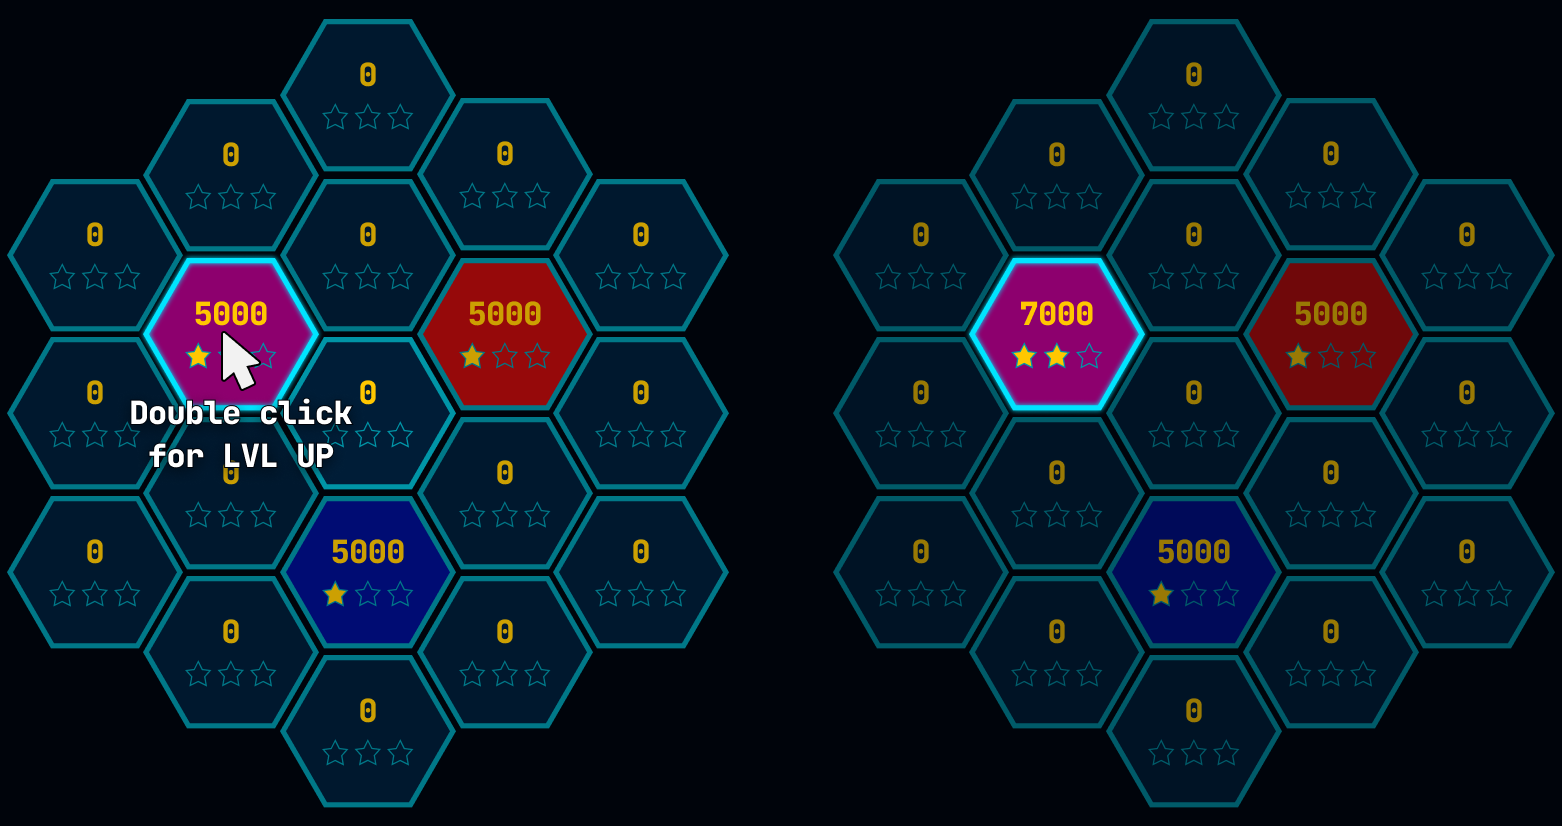
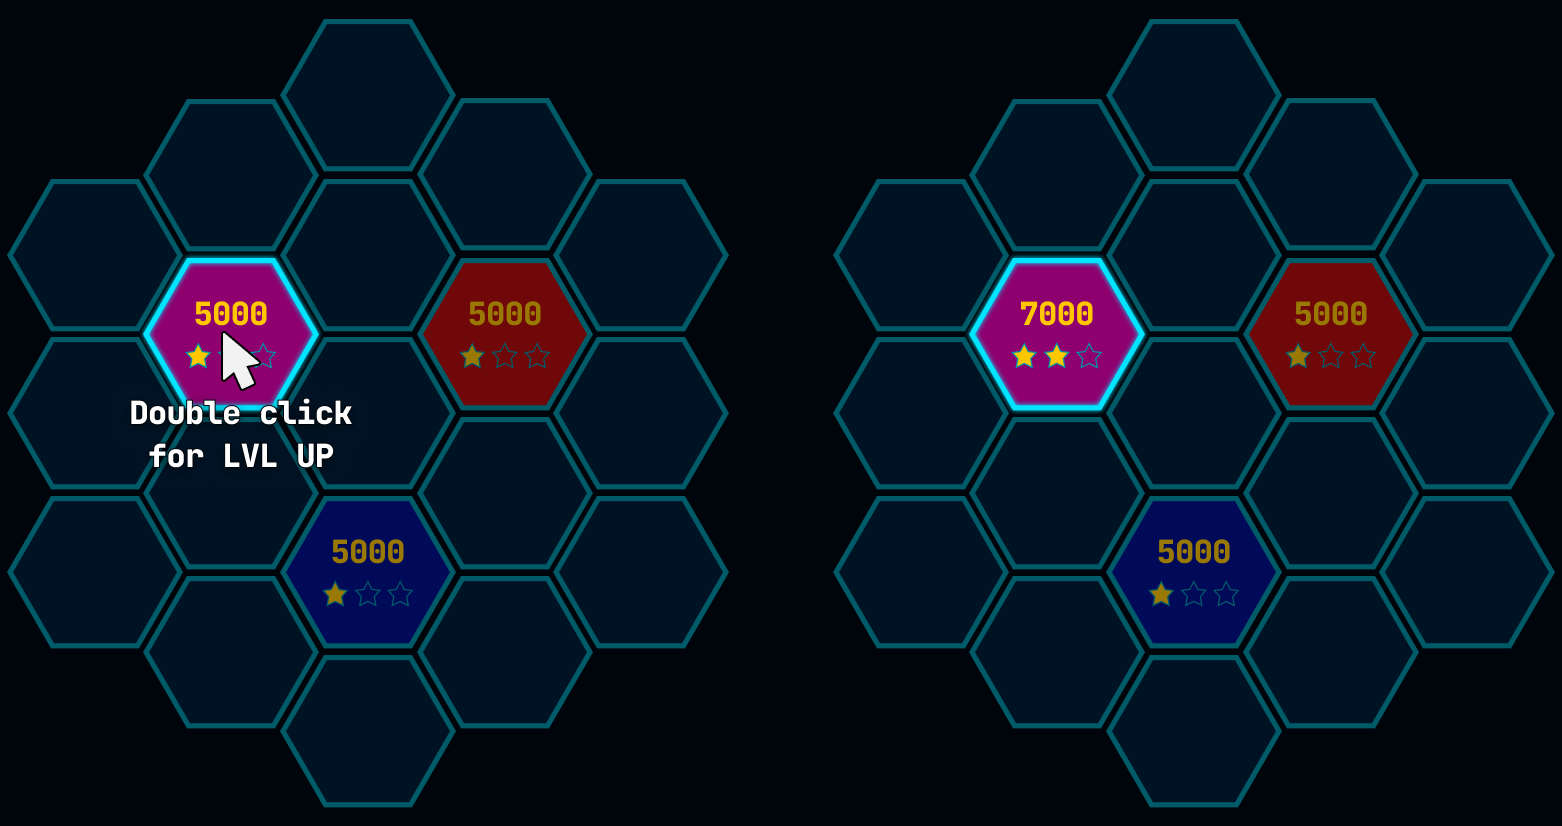
fix styles for tutorial and cells

diff --git a/src/web/src/view/HowItWorkPage.vue b/src/web/src/view/HowItWorkPage.vue
@@ -98,6 +98,7 @@
     <div class="interface-wrap">
       <div>
         <img src="/img/info_game_rooms.png" />
+        <h3>Game rooms</h3>
         <p>
           The panel displays all the current locations created by the players.
           To the right of each location is the number of players who have joined
@@ -115,6 +116,7 @@
       </div>
       <div>
         <img src="/img/info_this_game.png" />
+        <h3>This game</h3>
         <p>
           After you have selected a room with the "Join" or "Info" buttons,
           information about it will be displayed in the "This game" tab.
@@ -130,6 +132,7 @@
       </div>
       <div>
         <img src="/img/info_30days_top.png" />
+        <h3>30 days TOP</h3>
         <p>The best players are placed in the "30 days TOP".</p>
         <p>
           The list shows the address of the player and the number of captured
@@ -146,31 +149,38 @@
   padding: 120px 10%;
   font-family: "JetBrains Mono";
   font-size: 20px;
+  .energy {
+    color: #fbff3a;
+  }
+  h1 {
+    font-size: 50px;
+    font-weight: 800;
+    text-align: center;
+    margin-bottom: 40px;
+  }
+  h2 {
+    font-size: 30px;
+    font-weight: 800;
+    text-align: center;
+    margin-top: 50px;
+    margin-bottom: 20px;
+  }
+  h3 {
+    font-size: 26px;
+    font-weight: 800;
+    text-align: center;
+  }
+  p {
+    padding: 10px 0;
+  }
+  .p40 {
+    padding: 40px 0;
+  }
+  img {
+    padding: 40px 0;
+  }
 }
-.energy {
-  color: #fbff3a;
-}
-h1 {
-  font-size: 50px;
-  text-align: center;
-  margin-bottom: 40px;
-}
-h2 {
-  text-align: center;
-  font-size: 30px;
-  font-weight: 800;
-  margin-top: 50px;
-  margin-bottom: 20px;
-}
-p {
-  padding: 10px 0;
-}
-.p40 {
-  padding: 40px 0;
-}
-img {
-  padding: 40px 0;
-}
+
 .interface-wrap {
   display: flex;
   div {
@@ -180,6 +190,7 @@ img {
   img {
     max-width: 400px;
     padding: 0;
+    margin-bottom: 20px;
   }
 }
 </style>

diff --git a/src/web/src/component/GameCanvas.vue b/src/web/src/component/GameCanvas.vue
@@ -292,7 +292,8 @@ export default {
             y - 5,
             `${hex.details.energy}`,
             10,
-            "#FFC700"
+            "#FFC700",
+            true
           );
           // this.setText(
           //   this.mainCtx,
@@ -314,10 +315,10 @@ export default {
             this.mainCtx.drawImage(yellowStar, x + 7, y + 5, 15, 15);
           }
         } else {
-          this.setText(this.mainCtx, x, y - 5, 0, 10, "#FFC700");
-          this.mainCtx.drawImage(star, x - 23, y + 5, 15, 15);
-          this.mainCtx.drawImage(star, x - 8, y + 5, 15, 15);
-          this.mainCtx.drawImage(star, x + 7, y + 5, 15, 15);
+          // this.setText(this.mainCtx, x, y - 5, 0, 10, "#FFC700");
+          // this.mainCtx.drawImage(star, x - 23, y + 5, 15, 15);
+          // this.mainCtx.drawImage(star, x - 8, y + 5, 15, 15);
+          // this.mainCtx.drawImage(star, x + 7, y + 5, 15, 15);
         }
       }
 
@@ -361,12 +362,18 @@ export default {
     //   this.setText(this.mainCtx, x, y - this.hexSize / 2, 5000);
     // },
 
-    setText(ctx, x, y, txt, fontSize = 10, style = "white", align = "center") {
+    setText(ctx, x, y, txt, fontSize = 10, style = "white", shadow = false) {
       let _font = `${fontSize * (this.camera.zoom + 1)}px JetBrains Mono`;
       ctx.font = _font;
       ctx.fillStyle = style;
-      ctx.textAlign = align;
+      ctx.textAlign = "center";
+      if (shadow){
+        ctx.shadowColor="black";
+        ctx.shadowBlur=5;
+        ctx.lineWidth=5;
+      }
       ctx.fillText(txt, x, y, this.hexSize);
+      ctx.shadowBlur=0;
     },
 
     calculateHexDimensions() {

diff --git a/src/web/src/component/Controls.vue b/src/web/src/component/Controls.vue
@@ -49,8 +49,8 @@
                     minlength="2"
                   />
                 </td>
-                <td class="flex">
-                  <img src="/users.svg" alt="users" style="max-width: 24px; height: 17px; margin-right: 10px;" />
+                <td class="flex items-center">
+                  <img src="/users.svg" alt="users" style="max-width: 20px; height: 10px;" />
                   <div class="users-number">
                     <svg
                       @click="setUsersNumber('up')"
@@ -242,6 +242,7 @@ export default {
 .ps {
   height: 350px;
   background: rgba(0, 4, 11, 0.9);
+  padding-right: 10px;
 }
 .ps__thumb-y {
   background-color: #00e4ff;
@@ -305,6 +306,7 @@ export default {
     height: 350px;
   }
   .bottom-buttons {
+    margin-top: 10px;
     button {
       height: 50px;
       width: 33.33%;

diff --git a/src/web/src/services/ever.js b/src/web/src/services/ever.js
@@ -176,7 +176,7 @@ async function getRoutersAction() {
         cell = row.insertCell(0);
         cell.innerHTML = details.name;
         cell = row.insertCell(1);
-        cell.innerHTML = `<div class="flex"><img src="/users.svg" style="max-width: 24px; height: 17px; margin-right: 10px;"/> ${
+        cell.innerHTML = `<div class="flex items-center"><img src="/users.svg" style="max-width: 20px; height: 10px; margin-right: 10px;"/> ${
           Object.keys(liders.users).length
         }/${details.userCount}</div>`;
         cell = row.insertCell(2);

diff --git a/src/web/src/component/Navbar.vue b/src/web/src/component/Navbar.vue
@@ -94,7 +94,7 @@ export default {
 .nav {
   user-select: none;
   width: 100%;
-  min-height: 4rem;
+  height: 72px;
   display: flex;
   align-items: center;
   justify-content: space-between;
@@ -119,6 +119,7 @@ export default {
     }
     .logo {
       height: 50px;
+      width: 50px;
     }
     &:after {
       content: "";
@@ -126,7 +127,7 @@ export default {
       right: -30px;
       background-color: #fff;
       width: 3px;
-      height: 100%;
+      height: 50px;
       display: block;
     }
   }

diff --git a/src/web/src/App.vue b/src/web/src/App.vue
@@ -5,7 +5,7 @@ import Footer from "./component/Footer.vue";
 </script>
 
 <template>
-  <div class="font-chinese antialiased">
+  <div class="">
     <div class="screen">
       <Navbar/>
       <RouterView />
